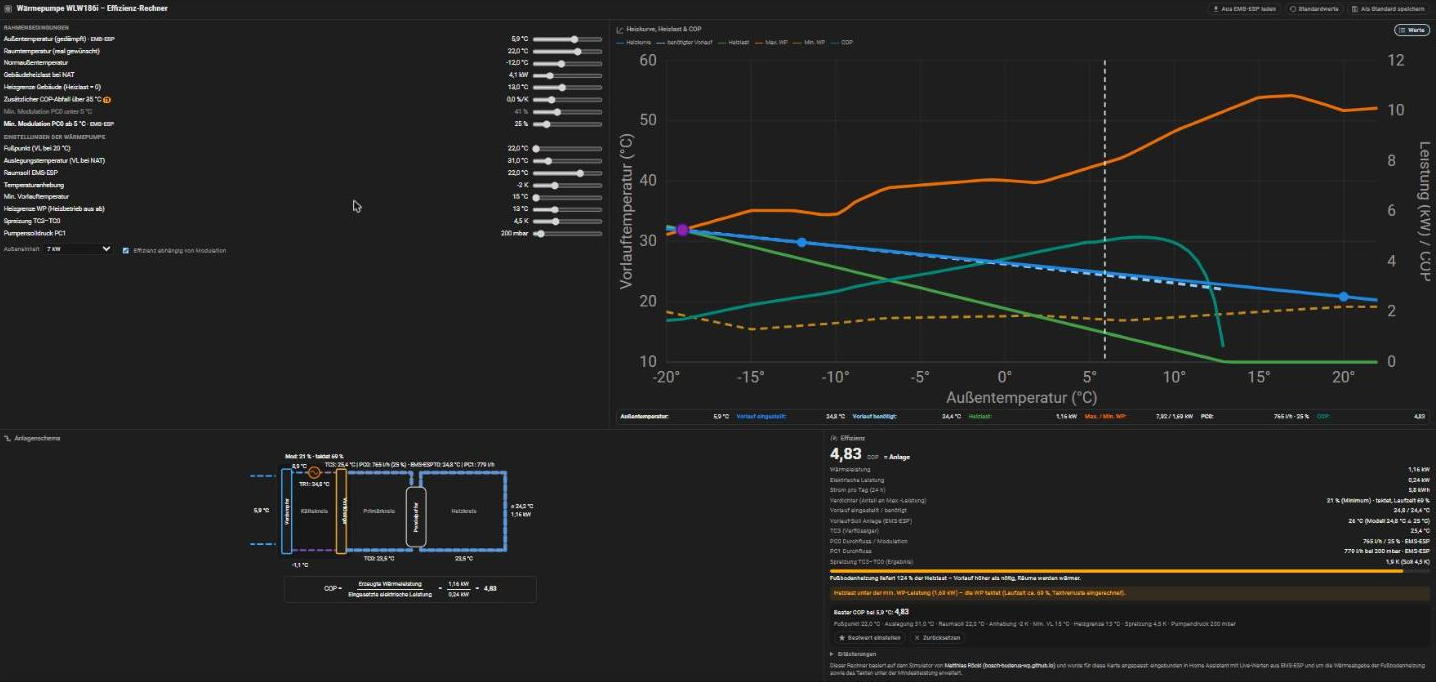
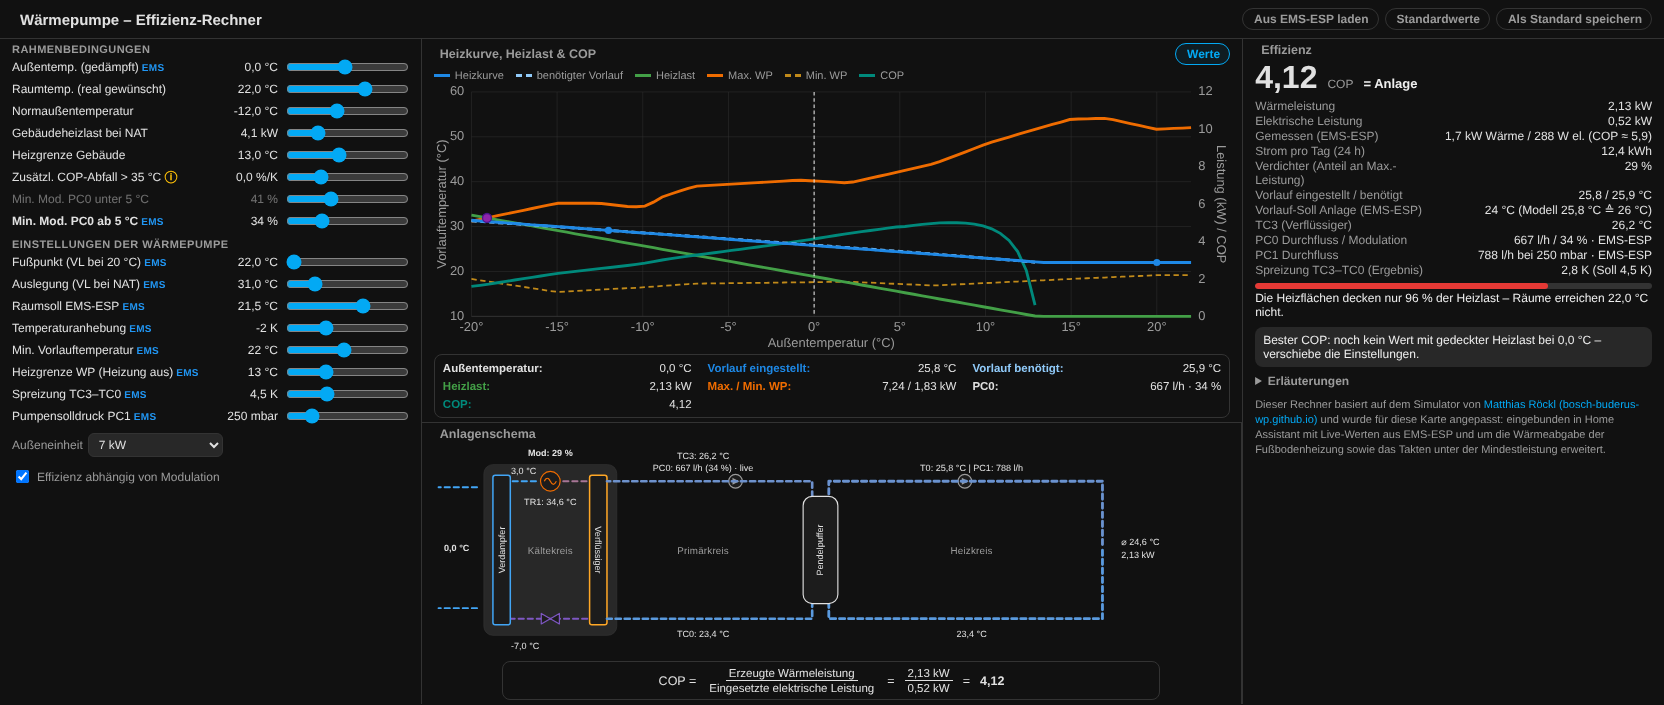
v3.9.3: README (Live-Werte, EMS, Layout, Entitaeten) und Screenshot aktualisiert; Wertezeile nutzt Live-Modulation
Claude-Session: https://claude.ai/code/session_013miGHNdE3yT1BZhwkKGdFE

diff --git a/dist/wp-simulator-card.js b/dist/wp-simulator-card.js
@@ -10,7 +10,7 @@
  *            emitter_exponent: 1.1   (statt emitter: Wärmeabgabe-Exponent selbst setzen, FBH 1.1, Heizkörper ca. 1.3)
  *            heizgrenze: legacy   (altes Verhalten bis 3.3.0: eine Heizgrenze für Gebäude und WP)
  */
-const WPS_VERSION = "3.9.2";
+const WPS_VERSION = "3.9.3";
 /* Stand der gespeicherten Reglerwerte. Nur erhöhen, wenn die Karte die Anlagenwerte neu aus EMS-ESP laden soll. */
 const WPS_STORE_V = "3.2.1";
 
@@ -1048,7 +1048,8 @@ class WpSimulatorCard extends HTMLElement {
     /* Werte ausgeblendet: nur die Markierungslinie mitführen */
     if (!this._tipOn) { tip.style.display = "none"; return; }
     tip.style.display = "";
-    const st = wpsCompute(Object.assign({}, p, { ta: Ta }));
+    /* An der eingestellten Außentemperatur dieselben Werte wie rechts (Live-Modulation PC0) */
+    const st = this._s && Math.abs(Ta - p.ta) < 0.05 ? this._s : wpsCompute(Object.assign({}, p, { ta: Ta }));
     const fb = wpsFbh(p, this._ref(), Ta);
     const near = this._bv && Math.abs(Ta - this._bv.Ta) < 0.4 ? `<div><i>Bivalenzpunkt</i></div>` : "";
     const offTxt = fb.Q > 0 && !fb.on ? ` (WP aus)` : "";

diff --git a/README.md b/README.md
@@ -52,13 +52,20 @@ Bei hohen Vorlauftemperaturen zusätzlich den Regler „Zusätzlicher COP-Abfall
 
 Die Einstellungen der Wärmepumpe (Fußpunkt, Auslegungstemperatur, Raumsoll, Spreizung, Pumpendruck usw.) holt die Schaltfläche **Aus EMS-ESP laden** direkt aus der Anlage. Ebenso übernimmt die Karte die gedämpfte Außentemperatur live.
 
+### Live-Werte und Bedienung
+
+- Regler, deren Wert gerade dem Wert aus EMS-ESP entspricht, tragen ein blaues **EMS**. Verschiebst du einen Regler, verschwindet die Kennzeichnung.
+- Die **Mindestmodulation von PC0** lernt die Karte im Heizbetrieb aus der Live-Modulation. Wie die Wärmepumpe richtet sie sich dabei nach der echten Lufttemperatur an der Außeneinheit (TL2): unter 4 °C in den Regler „unter 5 °C“, ab 5 °C in den Regler „ab 5 °C“, dazwischen wird nichts gelernt. Steht die Außentemperatur auf dem Live-Wert, verwendet die Rechnung den Regler nach TL2. Verschiebst du die Außentemperatur von Hand, gilt die 5-°C-Grenze am Regler.
+- **Standardwerte** setzt alle Regler zurück, die Live-Übernahme von Außentemperatur und PC0-Modulation bleibt dabei an. **Als Standard speichern** legt die aktuellen Reglerstellungen als eigene Standardwerte ab.
+- Ab 1300 px Fensterbreite zeigt die Karte alles auf einer Seite in drei Spalten (Regler, Diagramm mit Anlagenschema, Effizienz). Diagramm und Schema passen sich an die Fenstergröße an. Die Ansicht dafür als Typ **Panel** anlegen. Auf schmalen Bildschirmen stehen die Bereiche untereinander.
+
 ## Voraussetzungen
 
 - Home Assistant mit EMS-ESP (MQTT-Discovery) und den Standardnamen `sensor.boiler_…`, `sensor.thermostat_…`, `number.thermostat_…`
 - Das Rechenmodell kennt die Außeneinheiten **4, 5, 7, 10 und 12 kW** (WLW176i/186i AR, Inneneinheit TP70, Fußbodenheizung). Die Größe wählst du im Rechner unter „Außeneinheit“ oder per `defaults: { model: "10 kW" }`. **Nur das 7-kW-Profil ist an einer echten Anlage geprüft.** Die anderen Größen sind aus den Datenblattwerten der Buderus-Planungsunterlage (Tabelle 8.3.1) abgeleitet; Abweichung der Modell-COPs vom Datenblatt 1–5 %. Die Punkte bei −20, −15, +15 und +20 °C sowie die Mindestleistungen sind aus Bild 9 der Unterlage abgelesen (etwa ±0,1 kW). Bei 10/12 kW zeigt die Mindestleistungskurve bei +2 °C etwa 3,1 kW, die Tabelle nennt 2,1 kW als Modulationsbereich; der Rechner folgt der Kurve. Die Pumpenkennlinie PC0 stammt von der 7-kW-Anlage. Die Leistungskurven bei 45 und 55 °C Vorlauf (Bild 11 und 13) sind je Größe eingebaut, auch die Mindestleistung. Die Nenn-COP-Kurven der Unterlage (Bild 10, 12, 14) liegen bei 45 und 55 °C deutlich unter dem, was der Rechner liefert (bis etwa 30 %); sie gelten für den Nennpunkt mit Inneneinheit und sind mit den Tabellenwerten bei Maximalleistung nicht deckungsgleich. Bei Vorlauftemperaturen ab 45 °C ist der berechnete COP daher eher optimistisch. Je Größe ist der Abfall von 35 auf 55 °C an das SCOP-Verhältnis W55/W35 der Unterlage angeglichen. Wer Heizkörper oder ein schlecht gedämmtes Haus hat, kann den Regler „Zusätzlicher COP-Abfall über 35 °C“ (%/K, Standard 0, per `defaults: { copSlope: 1 }` voreinstellbar) erhöhen, etwa auf 1 bis 2 %/K, bis der Rechner zur gemessenen JAZ passt. Unterhalb von 35 °C Vorlauf hat der Regler keine Wirkung. Rückmeldungen mit Messwerten anderer Größen sind willkommen.
 - Die JAZ-Karte nutzt `recorder/statistics_during_period`. Die Energiezähler der Wärmepumpe müssen also in der Langzeitstatistik stehen (Standard bei EMS-ESP-Entitäten mit `state_class`).
 
-Ein eigener Helfer ist nicht nötig. Den Primärkreis-Durchfluss rechnet die Karte mit der eingebauten Pumpenkennlinie selbst. Wer einen eigenen Sensor hat, gibt ihn unter `entities: { pc0flow: … }` an.
+Ein eigener Helfer ist nicht nötig. Den Primärkreis-Durchfluss rechnet die Karte aus der Live-Modulation von PC0 (`sensor.boiler_heatingpumpmod`) mit der eingebauten Pumpenkennlinie. Für die Zeile „Gemessen (EMS-ESP)“ nutzt sie `sensor.boiler_hppower` und `sensor.boiler_hpcurrpower`, für die Temperaturbereiche der PC0-Modulation `sensor.boiler_hptl2`.
 
 ## Optionen
 
